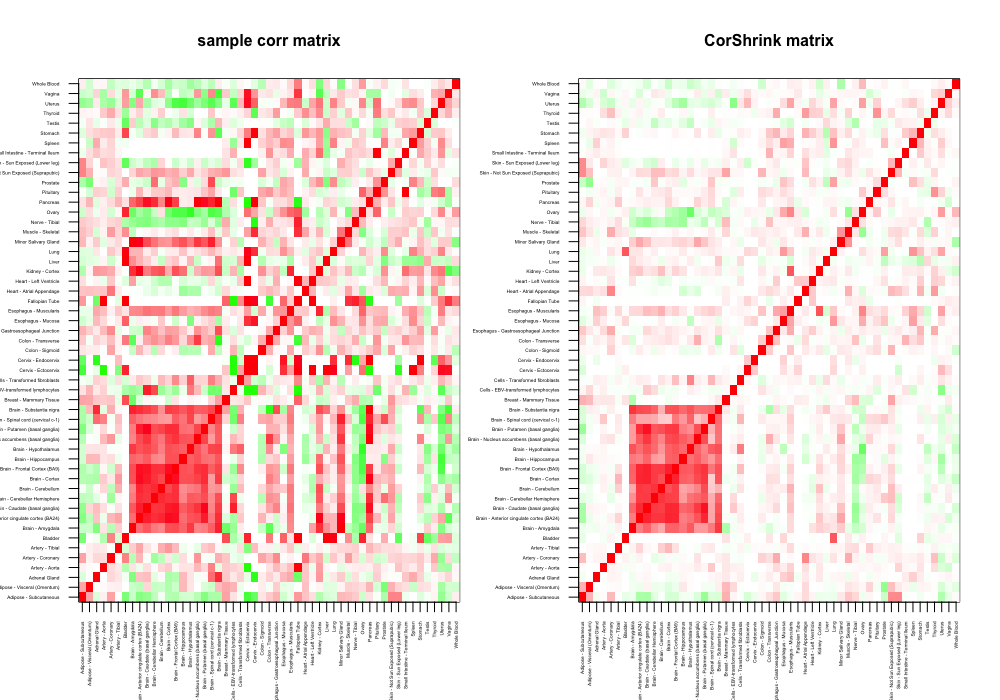
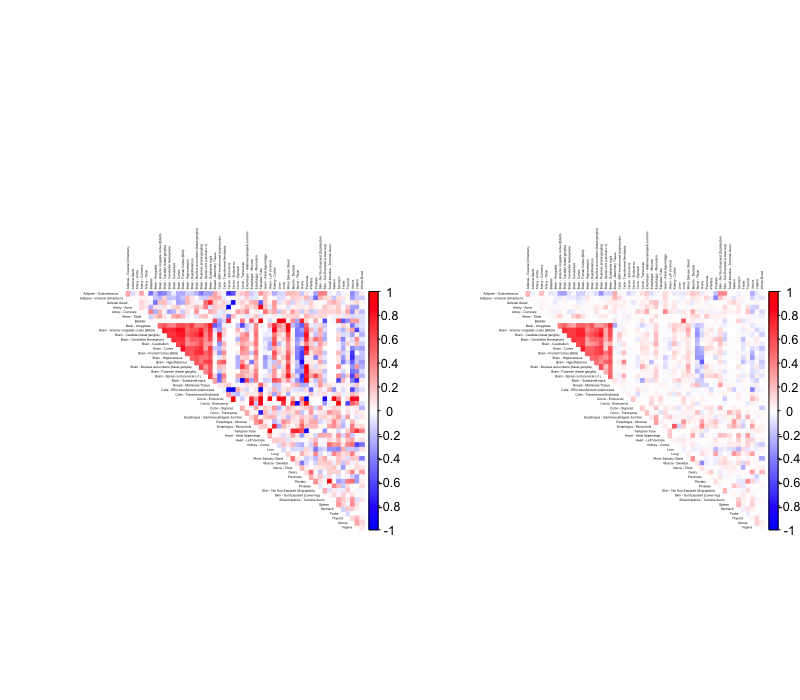
fixed the README

diff --git a/README.md b/README.md
@@ -71,11 +71,9 @@ GTEX-1122O      1.522667       1.674467          4.188002
 
 We use **CorShrink** to estimate the correlation matrix taking account of the missing observations and compare the result with the matrix of pairwise correlations generated from complete observations for each pair of features. 
 
-
 ```
-par(mfrow=c(1,2))
-out <- CorShrinkData(sample_by_feature_data, sd_boot = FALSE,
-                     image_original = TRUE, image_corshrink = TRUE)                            
+out <- CorShrinkData(sample_by_feature_data, sd_boot = FALSE, image = "both",
+                    image.control = list(tl.cex = 0.2))                            
 ```
 <img src="inst/doc/plot1.png" alt="Structure Plot" height="500" width="1000">
 
@@ -83,9 +81,8 @@ out <- CorShrinkData(sample_by_feature_data, sd_boot = FALSE,
 The above approach uses an asymototic version of CorShrink. Alternatively, one can use a re-sampling or Bootstrapping approach.
 
 ```
-par(mfrow=c(1,2))
-out <- CorShrinkData(sample_by_feature_data, sd_boot = TRUE, 
-                     image_original = TRUE, image_corshrink = TRUE)
+out <- CorShrinkData(sample_by_feature_data, sd_boot = TRUE, image = "both",
+                    image.control = list(tl.cex = 0.2))
 ```
 
 <img src="inst/doc/plot2.png" alt="Structure Plot" height="500" width="1000">
